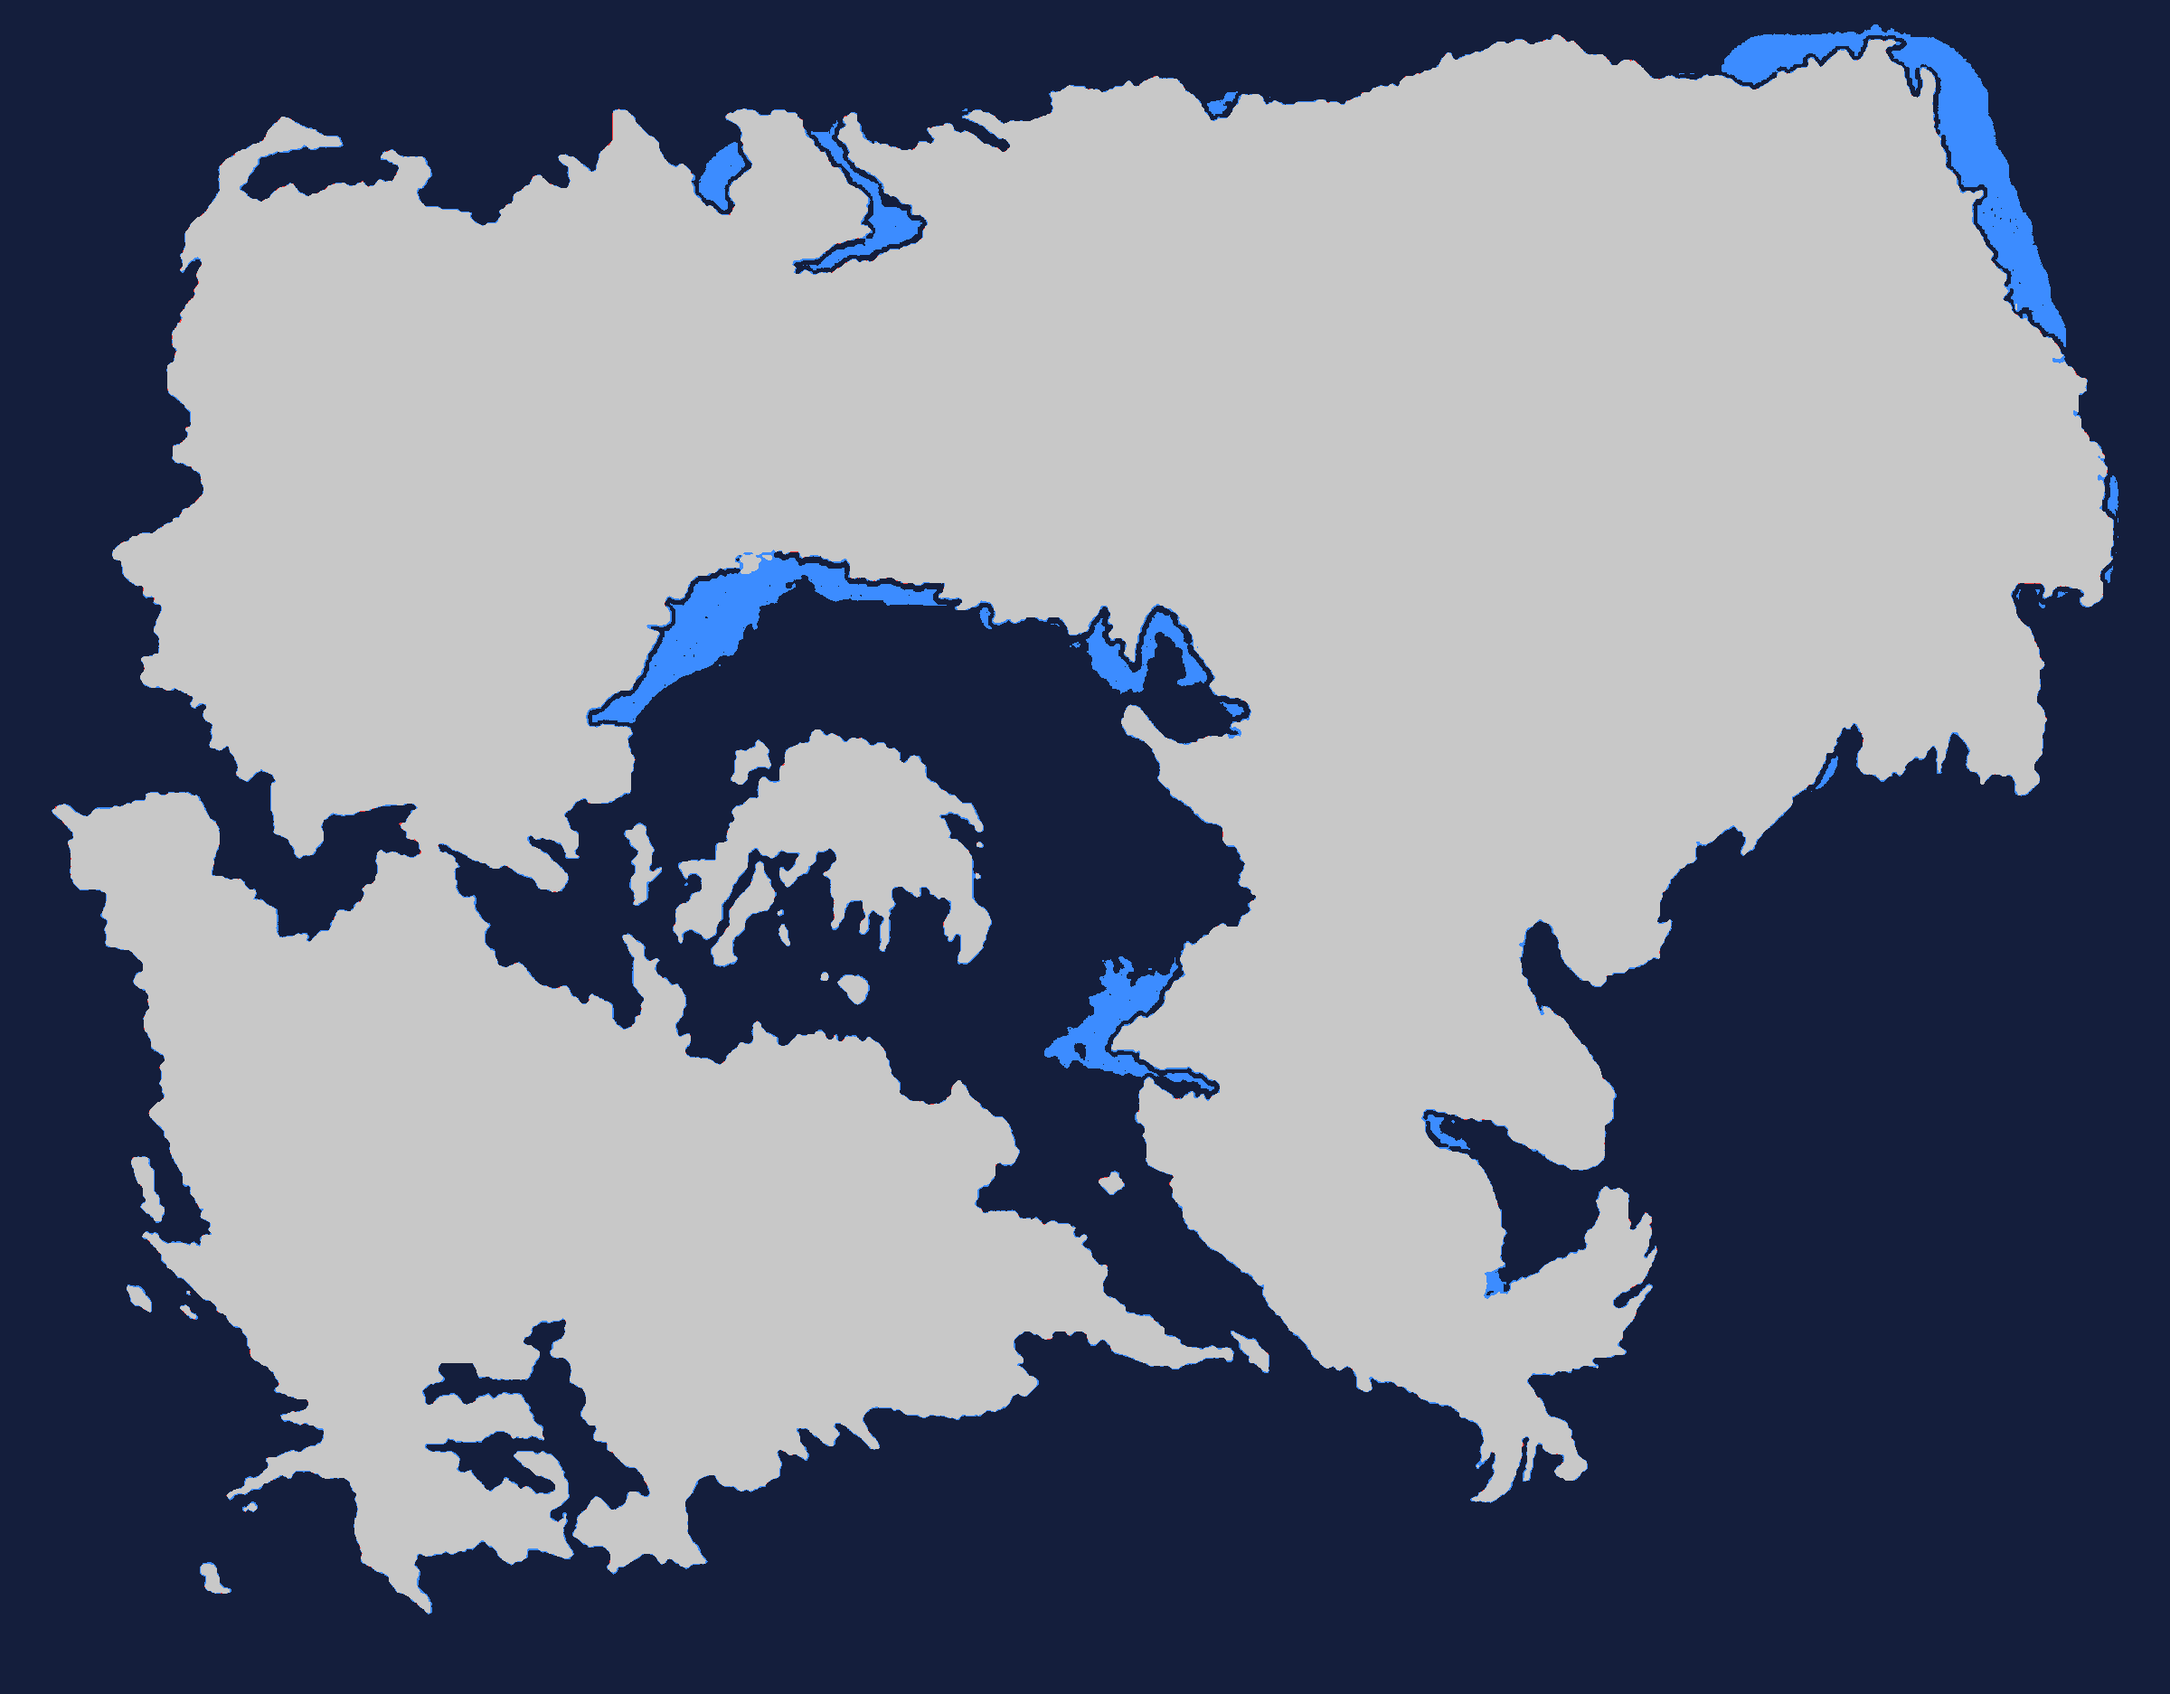
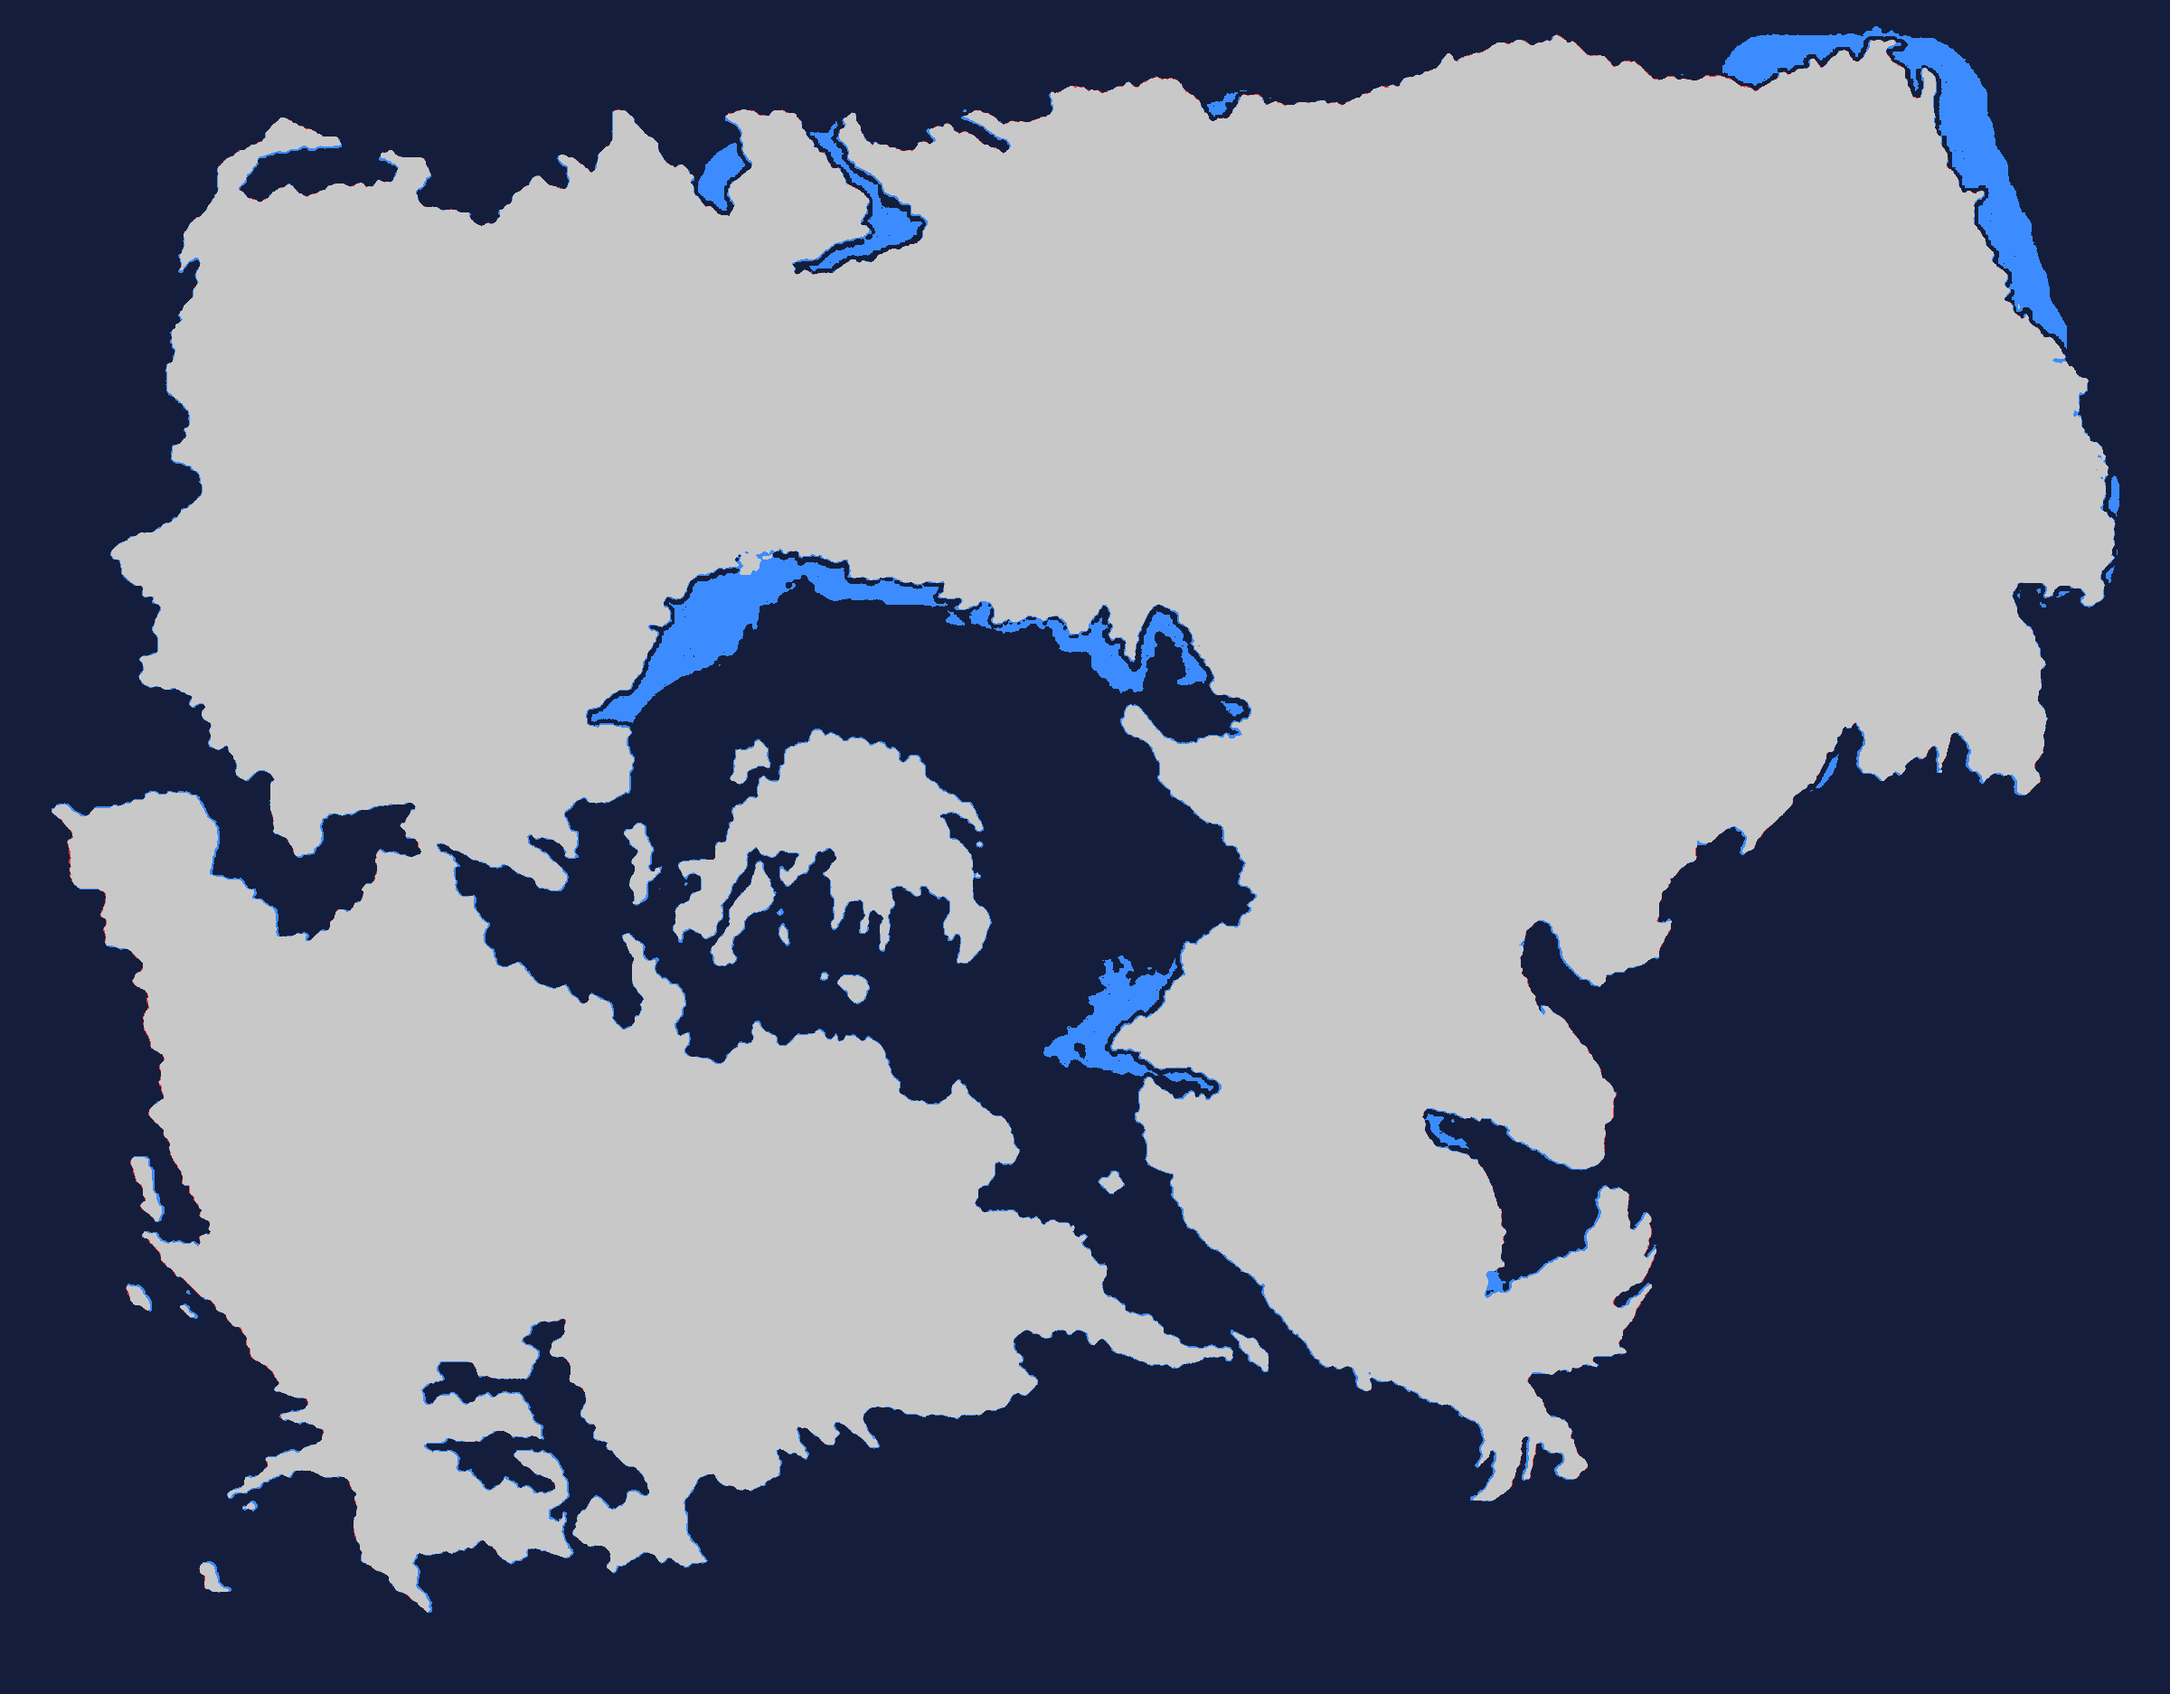
Atlas paketi bozkır düzeltmeli son haritadan; kabartma iki Merak görüntüsünden birleşik; sivri hata temizliği
Claude-Session: https://claude.ai/code/session_01TrTgWsQ7k9npTcPJkL6aYQ

Changed region(s): [[0.4688, 0.3714, 0.5, 0.4023], [0.4375, 0.3404, 0.4688, 0.3714]]

diff --git a/tarih/atlas_kabartma.py b/tarih/atlas_kabartma.py
@@ -2,7 +2,7 @@
 
 Zincir: atlas kabartma pikseli → atlas tuvali (dunyam.json kabartma sx sy ox oy) → ana harita/4 (atlas_ana kaydı) → ana harita 16k
 → renkli görüntü (kara maskeleri IoU ile kayıt). Renkli görüntüde deniz: mavi bileşen kırmızıdan belirgin büyük.
-Kullanım: python3 atlas_kabartma.py RENKLI.png ANA_16K.png [ATLAS_DEPOSU]  → atlas_ana/kabartma_kaynak.jpg, kabartma_kontrol.png
+Kullanım: python3 atlas_kabartma.py ANA_16K.png RENKLI1.png [RENKLI2.png ...]  (sonraki görüntü öncelikli; kırpılmış görüntüler birleşir)  → atlas_ana/kabartma_kaynak.jpg, kabartma_kontrol.png
 """
 import json, re, sys
 import numpy as np
@@ -15,7 +15,7 @@ F = 4
 
 
 def main():
-    renkli, ana = sys.argv[1], sys.argv[2]; ATLAS = sys.argv[3] if len(sys.argv) > 3 else "/home/user/athinker24/dunyam-atlas-mobil"
+    ana = sys.argv[1]; renkliler = sys.argv[2:]; ATLAS = "/home/user/athinker24/dunyam-atlas-mobil"
     hm = json.load(open(f"{ATLAS}/dunya/dunyam.json"))["heightmap"]; kb = hm["kabartma"]
     not_ = json.load(open("atlas_ana/heightmap_blogu.json"))["_not"]
     sx, sy, ox, oy = [float(v) for v in re.search(r"sx ([\d.]+), sy ([\d.]+)\) \+ \(ox ([-\d.]+), oy ([-\d.]+)\)", not_).groups()]
@@ -23,35 +23,49 @@ def main():
     A = np.asarray(Image.open(ana)).astype(np.int32) > S
     H, W = A.shape; Hc, Wc = H // F * F, W // F * F
     ak = A[:Hc, :Wc].reshape(Hc // F, F, Wc // F, F).mean((1, 3)).astype(np.float32)
-    # renkli görüntü /4
-    R = Image.open(renkli).convert("RGB")
-    Rw, Rh = R.size
-    r4 = np.asarray(R.resize((Rw // F, Rh // F), Image.BOX)).astype(np.float32)
-    rk = (r4[..., 2] - r4[..., 0]) < 8                      # kara: mavi kırmızıdan belirgin büyük değil
-    L, n = ndimage.label(rk); s = ndimage.sum(rk, L, range(1, n + 1)); rk = np.isin(L, np.nonzero(s >= 30)[0] + 1)
-    # kayıt: renkli/4 (y, x) = ana/4 (y, x) · (b, a) + (d, c)
-    yy, xx = np.nonzero(ak > 0.5); ry, rx = np.nonzero(rk)
-    a0 = (rx.max() - rx.min()) / (xx.max() - xx.min()); b0 = (ry.max() - ry.min()) / (yy.max() - yy.min())
-    p0 = [a0, b0, rx.min() - xx.min() * a0, ry.min() - yy.min() * b0]
-    y0, y1, x0, x1 = yy.min() - 20, yy.max() + 20, xx.min() - 20, xx.max() + 20
-    Y, X = np.mgrid[y0:y1:2, x0:x1:2].astype(np.float32); akk = ak[y0:y1:2, x0:x1:2] > 0.5
-    rf = rk.astype(np.float32)
-
-    def m(p):
-        a, b, c, d = p
-        q = ndimage.map_coordinates(rf, [Y * b + d, X * a + c], order=1, cval=0) > 0.5
-        return -(q & akk).sum() / max((q | akk).sum(), 1)
-    r = optimize.minimize(m, p0, method="Nelder-Mead", options={"xatol": 1e-4, "fatol": 1e-6, "maxiter": 800})
-    a, b, c, d = r.x; print("renkli kayıt", np.round(r.x, 4), "IoU", round(-r.fun, 4))
-    # kabartma çerçevesi
     ky, kx = Image.open(f"{ATLAS}/{kb['file']}").size[::-1]
     gy, gx = np.mgrid[0:ky, 0:kx].astype(np.float64)
     tr = gy * kb["sy"] + kb["oy"]; tc = gx * kb["sx"] + kb["ox"]
     ay, ax = (tr - oy) / sy, (tc - ox) / sx                    # ana/4
-    by, bx = ay * b + d, ax * a + c                            # renkli/4
-    olc = max(kb["sx"] / sx * a, 1.0)                          # bir kabartma pikseli kaç renkli/4 pikseli
-    rs = ndimage.gaussian_filter(r4, (0.45 * olc, 0.45 * olc, 0)) if olc > 1.2 else r4
-    kab = np.stack([ndimage.map_coordinates(rs[..., k], [by, bx], order=1, mode="nearest") for k in range(3)], -1)
+    yy, xx = np.nonzero(ak > 0.5)
+    y0, y1, x0, x1 = yy.min() - 20, yy.max() + 20, xx.min() - 20, xx.max() + 20
+    Y, X = np.mgrid[y0:y1:2, x0:x1:2].astype(np.float32); akk = ak[y0:y1:2, x0:x1:2] > 0.5
+    kab = np.zeros((ky, kx, 3), np.float32); wtop = np.zeros((ky, kx), np.float32)
+    # sonraki görüntüler yalnız kara ve kıyı çevresinde kullanılır: açık denizdeki kadraj karartması (vinyet) dikiş bırakmasın
+    yakin = ndimage.gaussian_filter((ndimage.map_coordinates(ak, [ay, ax], order=1, cval=0) > 0.5).astype(np.float32), 6)
+    yakin = np.clip(ndimage.gaussian_filter(ndimage.maximum_filter(yakin, 31), 8) * 3, 0, 1)
+    for yol in renkliler:                                     # sonraki görüntü öncelikli (üstüne yazar)
+        R = Image.open(yol).convert("RGB"); Rw, Rh = R.size
+        r4 = np.asarray(R.resize((Rw // F, Rh // F), Image.BOX)).astype(np.float32)
+        rk = (r4[..., 2] - r4[..., 0]) < 8
+        L, n = ndimage.label(rk); s_ = ndimage.sum(rk, L, range(1, n + 1)); rk = np.isin(L, np.nonzero(s_ >= 30)[0] + 1)
+        ry, rx = np.nonzero(rk)
+        a0 = (rx.max() - rx.min()) / (xx.max() - xx.min())   # yatayda kıta tam görünür kabul edilir; dikeyde kırpılmış olabilir
+        p0 = [a0, a0, rx.min() - xx.min() * a0, ry.min() - yy.min() * a0]
+        rf = rk.astype(np.float32); hR, wR = rk.shape
+
+        def m(p):
+            a, b, c, d = p
+            qy, qx = Y * b + d, X * a + c
+            ic = (qy >= 0) & (qy <= hR - 1) & (qx >= 0) & (qx <= wR - 1)
+            q = ndimage.map_coordinates(rf, [qy, qx], order=1, cval=0) > 0.5
+            return -(q & akk & ic).sum() / max(((q | akk) & ic).sum(), 1)
+        r = optimize.minimize(m, p0, method="Nelder-Mead", options={"xatol": 1e-4, "fatol": 1e-6, "maxiter": 1000})
+        a, b, c, d = r.x; print(yol, "kayıt", np.round(r.x, 4), "IoU (görünen kısım)", round(-r.fun, 4))
+        by, bx = ay * b + d, ax * a + c
+        olc = max(kb["sx"] / sx * a, 1.0)
+        rs = ndimage.gaussian_filter(r4, (0.45 * olc, 0.45 * olc, 0)) if olc > 1.2 else r4
+        g = np.stack([ndimage.map_coordinates(rs[..., k], [by, bx], order=1, mode="nearest") for k in range(3)], -1)
+        pay = 250.0                                            # kadraj kenarından 250 piksel (renkli/4) içeriye kadar hiç, 500'de tam: kenardaki vinyet karartması girmesin
+        w = np.clip((np.minimum.reduce([by, hR - 1 - by, bx, wR - 1 - bx]) - pay) / pay, 0, 1).astype(np.float32)
+        if yol == renkliler[0]:
+            kab = g                                            # ilk görüntü her yeri doldurur (kadraj dışı en yakın kenar)
+        else:
+            w = w * yakin
+            kab = kab * (1 - w[..., None]) + g * w[..., None]
+        wtop = np.maximum(wtop, w)
+    if (wtop < 0.99).any():
+        print("uyarı: hiçbir görüntünün kapsamadığı kabartma pikseli", int((wtop < 0.5).sum()))
     Image.fromarray(np.clip(kab, 0, 255).astype(np.uint8)).save("atlas_ana/kabartma_kaynak.jpg", quality=92)
     # kontrol: kabartmanın karası ile ana haritanın karası
     kk = ndimage.map_coordinates(ak, [ay, ax], order=1, cval=0) > 0.5

diff --git a/tarih/atlas_ana.py b/tarih/atlas_ana.py
@@ -31,6 +31,11 @@ def main():
     H, W = A.shape
     m16 = coz(A)
     kara16 = A > S
+    # tek piksellik sivri hatalar (fırça izi; 3×3 komşuluk ortancasından 1500 m'den fazla yüksek) ortancaya indirilir
+    orta = ndimage.median_filter(m16, 3)
+    sivri = kara16 & (m16 - orta > 1500)
+    m16 = np.where(sivri, orta, m16)
+    print("sivri hata pikseli", int(sivri.sum()))
     # 4'e indirilmiş: kara payı ve yalnız karada ortalama yükseklik
     k4 = kara16.reshape(H // F, F, -1, F)[:, :, :W // F * 1, :] if False else None
     Hc, Wc = H // F * F, W // F * F

diff --git a/tarih/atlas_ana/MESAJ.md b/tarih/atlas_ana/MESAJ.md
@@ -1,8 +1,8 @@
-Arazi değişti: sahibin Merak ana haritası (dunyam_ana_16k; Köprü Kıstağı dahil, kıyı v2). Ekteki dosyalar atlas girdisi, kayıt yapıldı.
-1. dunyam_heightmap.png → dunya/dunyam_heightmap.png (4096 × 2048, 16 bit). Kıyı artık ana haritadan: tuvalde 2038 piksel denizden
-   karaya, 19441 piksel karadan denize döndü (çoğu kıyı boyunca bir piksellik şerit; ikincisi deniz seviyesinin 400 gri altına kondu).
+Arazi değişti: sahibin Merak ana haritasının bozkır düzeltmeli son sürümü (Köprü Kıstağı dahil, kıyı v2; Kaynak Sırası'nın güney ucunda iç deniz kıyısı yükseltildi). Ekteki dosyalar atlas girdisi, kayıt yapıldı.
+1. dunyam_heightmap.png → dunya/dunyam_heightmap.png (4096 × 2048, 16 bit). Kıyı artık ana haritadan: tuvalde 1874 piksel denizden
+   karaya, 20110 piksel karadan denize döndü (çoğu kıyı boyunca bir piksellik şerit; ikincisi deniz seviyesinin 400 gri altına kondu).
    Okyanus pikselleri aynen.
-2. heightmap_blogu.json → dunya/dunyam.json içindeki heightmap bloğunda yalnız max_elev_m (5390), elev_gamma (1.0) ve elev_curve
+2. heightmap_blogu.json → dunya/dunyam.json içindeki heightmap bloğunda yalnız max_elev_m (5490), elev_gamma (1.0) ve elev_curve
    (doğrusal) alanlarını değiştir; diğer alanlar aynı.
 3. kabartma_kaynak.jpg → dunya/kabartma_kaynak.jpg (aynı çerçeve, aynı sx sy ox oy).
 4. Kıyı değiştiği için akıntıları yeniden kur (_akinti_kur.py), sonra uret.py; su/, bitki, toprak ve diğer katmanlar araziye bağlıysa
